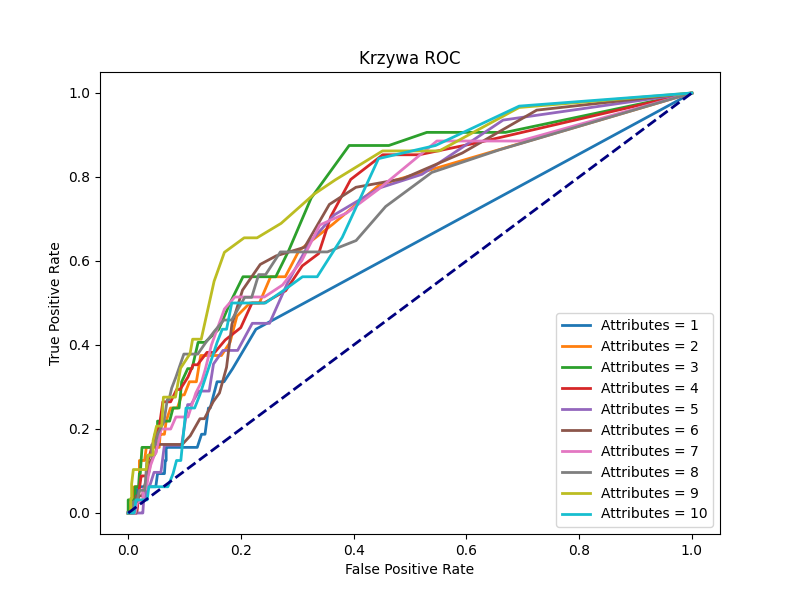
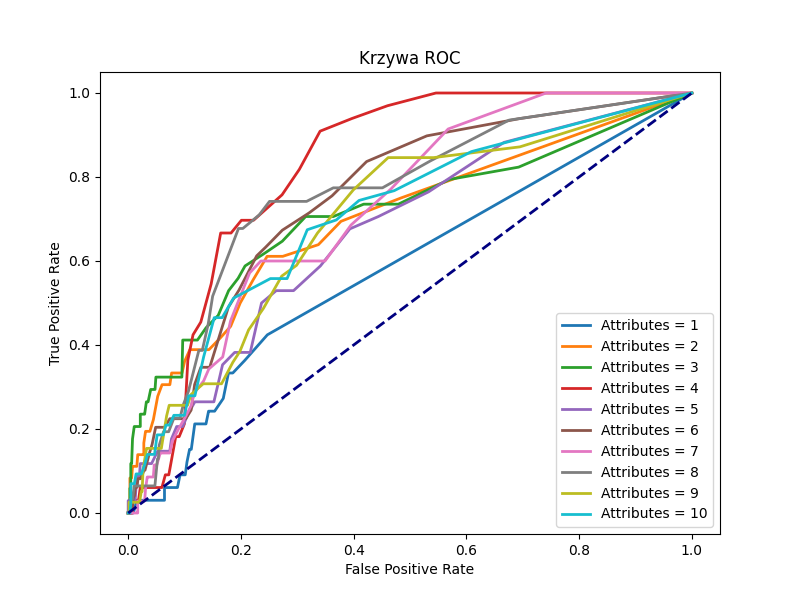
Fixes

diff --git a/main.py b/main.py
@@ -2,7 +2,7 @@ import os
 
 import numpy as np
 import pandas as pd
-from scipy.stats import shapiro, ttest_ind, ttest_rel, mannwhitneyu, kruskal
+from scipy.stats import shapiro, ttest_ind, ttest_rel, mannwhitneyu, kruskal, binom
 import matplotlib.pyplot as plt
 from sklearn.datasets import make_classification
 from sklearn.decomposition import PCA
@@ -42,10 +42,12 @@ def plots(data):
 
         plt.tight_layout()
         plt.savefig(f"plots/{label}.png")
-        plt.show()
+        plt.close()
 
 
-def check_normal_distribution(data):
+def check_normal_distribution():
+    print("Performing the normal distribution check:")
+    data = pd.read_csv("datasets/height_weight.csv")
     height_data = data["Height"]
     weight_data = data["Weight"]
 
@@ -81,7 +83,8 @@ def check_normal_distribution(data):
 
     plt.tight_layout()
     plt.savefig("plots/normal_distribution.png")
-    plt.show()
+    plt.close()
+    print("")
 
 
 # This function calculates basic descriptive statistics for the given data and saves the results to a file.
@@ -103,27 +106,46 @@ def descriptive_statistics(data, output_file="descriptive_statistics.csv"):
     print(descriptive_stats)
 
 
-def student_ttest(data):
-    height = data["Height"]
-    weight = data["Weight"]
+def student_ttest():
+    print("Performing the student t-test:")
+    data = pd.read_csv("datasets/height_weight_exploit.csv")
 
-    t_stat, p_value = ttest_ind(height, weight)
+    df_man = data[data['Gender'] == 1]
+    df_women = data[data['Gender'] == 0]
+
+    height_man = df_man["Height"]
+    height_women = df_women["Height"]
+
+    t_stat, p_value = ttest_ind(height_man, height_women)
     print("t-statistic: ", t_stat)
     print("p-value: ", p_value)
 
     alpha = 0.05
     if p_value < alpha:
         print(
-            "Reject the null hypothesis. There is a significant difference between height and weight levels."
+            "Reject the null hypothesis. There is a significant difference in height between men and women."
         )
     else:
         print(
-            "Fail to reject the null hypothesis. There is no significant difference between height and weight levels."
+            "Fail to reject the null hypothesis. There is no significant difference in height between men and women."
         )
 
+    print("")
 
-def paired_ttest(data):
-    corr_coefficient, p_value = ttest_rel(data["Weight"], data["Height"])
+
+def paired_ttest():
+    print("Performing the pair t-test:")
+    data = pd.read_csv("datasets/height_weight_exploit.csv")
+
+    df_man = data[data['Gender'] == 1]
+    df_women = data[data['Gender'] == 0]
+
+    weight_man = df_man["Weight"].values
+    weight_women = df_women["Weight"].values
+
+    max_pairs = max(len(weight_man),len(weight_man))
+
+    corr_coefficient, p_value = ttest_rel(weight_man[:max_pairs], weight_women[:max_pairs])
 
     # Print the results
     print(f"Pearson correlation coefficient: {corr_coefficient}")
@@ -133,16 +155,24 @@ def paired_ttest(data):
     alpha = 0.05
     if p_value < alpha:
         print(
-            "Reject the null hypothesis. There is a significant difference between Height and Weight."
+            "Reject the null hypothesis. There is a significant difference in weight before and after tratment."
         )
     else:
         print(
-            "Fail to reject the null hypothesis. There is no significant difference between Height and Weight."
+            "Fail to reject the null hypothesis. There is no significant difference in weight before and after tratment."
         )
 
+    print("")
 
-def kruskal_test(data):
-    kruskal_stat, p_value = kruskal(data["ThalAch"], data["Chol"], data["Age"])
+
+def kruskal_test():
+    print("Performing the Kruskal-Wallis test:")
+    data = pd.read_csv("datasets/heart_disease.csv")
+
+    df_man = data[data['Sex'] == 1]
+    df_women = data[data['Sex'] == 0]
+
+    kruskal_stat, p_value = kruskal(df_man["Chol"], df_women["Chol"])
 
     # Print the results
     print(f"Kruskal statistics: {kruskal_stat}")
@@ -152,16 +182,24 @@ def kruskal_test(data):
     alpha = 0.05
     if p_value < alpha:
         print(
-            "Reject the null hypothesis. There is a significant difference between Height and Weight."
+            "Reject the null hypothesis. There is a significant difference in cholesterol level between men and women."
         )
     else:
         print(
-            "Fail to reject the null hypothesis. There is no significant difference between Height and Weight."
+            "Fail to reject the null hypothesis. There is no significant difference in cholesterol level between men and women."
         )
 
+    print("")
 
-def mann_whitney_u_test(data):
-    mann_whitney_u_stat, p_value = mannwhitneyu(data["Age"], data["Chol"])
+
+def mann_whitney_u_test():
+    print("Performing the Mann Whitney U test:")
+    data = pd.read_csv("datasets/heart_disease.csv")
+
+    df_man = data[data['Sex'] == 1]
+    df_women = data[data['Sex'] == 0]
+
+    mann_whitney_u_stat, p_value = mannwhitneyu(df_man["RestECG"], df_women["RestECG"])
 
     # Print the results
     print(f"Mann Whitney U statistic: {mann_whitney_u_stat}")
@@ -171,11 +209,11 @@ def mann_whitney_u_test(data):
     alpha = 0.05
     if p_value < alpha:
         print(
-            "Reject the null hypothesis. There is a significant difference between ThalAch and Sex."
+            "Reject the null hypothesis. There is a significant difference in rest ecg between men and women."
         )
     else:
         print(
-            "Fail to reject the null hypothesis. There is no significant difference between ThalAch and Sex."
+            "Fail to reject the null hypothesis. There is no significant difference in rest ecg between men and women."
         )
 
 
@@ -229,34 +267,55 @@ def make_friedman_test():
 def plot_survival_curves():
     df = pd.read_csv("datasets/strokes.csv")
 
-    age =60
+    glucose_level = 150
 
-    df_over_50 = df[df['age'] > age]
-    df_under_50 = df[df['age'] <= age]
+    df_over_100 = df[df['avg_glucose_level'] > glucose_level]
+    df_under_100 = df[df['avg_glucose_level'] <= glucose_level]
     kmf1 = KaplanMeierFitter()
-    kmf1.fit(durations=df_over_50['avg_glucose_level'], event_observed=df_over_50['stroke'])
+    kmf1.fit(durations=df_over_100['age'], event_observed=df_over_100['stroke'])
     kmf2 = KaplanMeierFitter()
-    kmf2.fit(durations=df_under_50['avg_glucose_level'], event_observed=df_under_50['stroke'])
+    kmf2.fit(durations=df_under_100['age'], event_observed=df_under_100['stroke'])
     kmf1.plot_survival_function()
     kmf2.plot_survival_function()
 
-    plt.title('Krzywa przeżycia Kaplana-Meiera w zależności od ilości glukozy we krwi')
-    plt.xlabel('Ilość glukozy we krwi')
+    plt.title('Krzywa przeżycia Kaplana-Meiera w zależności od poziomu glukozy')
+    plt.xlabel('Wiek')
     plt.ylabel('Prawdopodobieństwo niedostania udaru')
-    plt.xlim(min(df['avg_glucose_level']) - 10, max(df['avg_glucose_level']) + 10)
+    plt.xlim(45, 85)
     legend = plt.legend()
-    legend.get_texts()[0].set_text(f'Ilość glukozy we krwi dla grupy > {age} lat')
-    legend.get_texts()[1].set_text(f'Ilość glukozy we krwi dla grupy <= {age} lat')
-    plt.show()
+    legend.get_texts()[0].set_text(f'Wiek dla grupy > {glucose_level} poziomu glukozy')
+    legend.get_texts()[1].set_text(f'Wiek dla grupy <= {glucose_level} poziomu glukozy')
+    plt.savefig("plots/curve_1.png")
+    plt.close()
+
+    bmi = 25
+
+    df_over_25 = df[df['bmi'] > bmi]
+    df_under_25 = df[df['bmi'] <= bmi]
+    kmf1 = KaplanMeierFitter()
+    kmf1.fit(durations=df_over_25['age'], event_observed=df_over_25['stroke'])
+    kmf2 = KaplanMeierFitter()
+    kmf2.fit(durations=df_under_25['age'], event_observed=df_under_25['stroke'])
+    kmf1.plot_survival_function()
+    kmf2.plot_survival_function()
+
+    plt.title('Krzywa przeżycia Kaplana-Meiera w zależności od wskaźnika BMI')
+    plt.xlabel('Wiek')
+    plt.ylabel('Prawdopodobieństwo niedostania udaru')
+    plt.xlim(45, 85)
+    legend = plt.legend()
+    legend.get_texts()[0].set_text(f'Wiek dla grupy > {bmi} wskaźnika bmi')
+    legend.get_texts()[1].set_text(f'Wiek dla grupy <= {bmi} wskaźnika bmi')
+    plt.savefig("plots/curve_2.png")
+    plt.close()
 
 
 def pca_roc():
     data = pd.read_csv("datasets/strokes.csv")
 
-
-
     # Extract relevant columns for X
-    selected_features = ["gender","age","hypertension","heart_disease","ever_married","work_type","Residence_type","avg_glucose_level","bmi","smoking_status"]
+    selected_features = ["gender", "age", "hypertension", "heart_disease", "ever_married", "work_type",
+                         "Residence_type", "avg_glucose_level", "bmi", "smoking_status"]
 
     # Convert categorical variables to numerical or boolean values
     gender_mapping = {'Male': 0, 'Female': 1}
@@ -285,27 +344,27 @@ def pca_roc():
     plt.title('Explained Variance Ratio vs. Number of Principal Components')
     plt.xlabel('Ilość cech')
     plt.ylabel('Cumulative Explained Variance Ratio')
-    plt.show()
+
+    plt.close()
 
     results = []
     auc_res = []
 
-    for i in range(1,11):
-        X_train, X_test, y_train, y_test = train_test_split(X_pca[:,:i], y, test_size=0.2)
+    for i in range(1, 11):
+        X_train, X_test, y_train, y_test = train_test_split(X_pca[:, :i], y, test_size=0.2)
         clf = RandomForestClassifier(random_state=42)
         clf.fit(X_train, y_train)
         y_scores = clf.predict_proba(X_test)[:, 1]
 
         fpr, tpr, thresholds = roc_curve(y_test, y_scores)
-        auc_res.append( roc_auc_score(y_test, y_scores))
+        auc_res.append(roc_auc_score(y_test, y_scores))
         results.append((fpr, tpr))
-
 
     plt.figure(figsize=(8, 6))
 
-    for i,res in enumerate(results):
-        fpr, tpr=res
-        plt.plot(fpr, tpr, lw=2,label=f"Attributes = {i+1}")
+    for i, res in enumerate(results):
+        fpr, tpr = res
+        plt.plot(fpr, tpr, lw=2, label=f"Attributes = {i + 1}")
 
     plt.plot([0, 1], [0, 1], color='navy', lw=2, linestyle='--')
     plt.xlabel('False Positive Rate')
@@ -320,15 +379,16 @@ def pca_roc():
     explained_variance_ratio = pca.explained_variance_ratio_
     cumulative_variance_ratio = np.cumsum(explained_variance_ratio)
     table_data = {
-        "Eigenvalue": eigenvalues,
-        "Difference": eigenvalue_diff,
-        "Proportion": explained_variance_ratio,
-        "Cumulative": cumulative_variance_ratio,
-        "AUC": auc_res
+        "Eigenvalue": np.round(eigenvalues,4),
+        "Difference": np.round(eigenvalue_diff,4),
+        "Proportion": np.round(explained_variance_ratio,4),
+        "Cumulative": np.round(cumulative_variance_ratio,4),
+        "AUC": np.round(auc_res,4)
     }
     result_table = pd.DataFrame(table_data)
     result_table.index += 1
     result_table.to_csv('pca_results_table.csv', index_label='Index')
+
 
 def main():
     # # Loading normal distributed data - https://www.kaggle.com/code/mysha1rysh/gaussian-normal-distribution/notebook
@@ -338,44 +398,67 @@ def main():
     #
     # plots(medical_data)
     #
-    # # Calculate and save descriptive statistics
-    # descriptive_statistics(
-    #     normal_distributed_data,
-    #     output_file="descriptive_stats/descriptive_statistics_height_weight.csv",
-    # )
-    # descriptive_statistics(
-    #     medical_data, output_file="descriptive_stats/descriptive_statistics_medical.csv"
-    # )
+    # # # Calculate and save descriptive statistics
+    # # descriptive_statistics(
+    # #     normal_distributed_data,
+    # #     output_file="descriptive_stats/descriptive_statistics_height_weight.csv",
+    # # )
+    # # descriptive_statistics(
+    # #     medical_data, output_file="descriptive_stats/descriptive_statistics_medical.csv"
+    # # )
+    # #
+    # # # Checking normal distribution of data for tests with normal distribution
+    # # check_normal_distribution()
     #
-    # print("Performing the normal distribution check:")
-    # # Checking normal distribution of data for tests with normal distribution
-    # check_normal_distribution(normal_distributed_data)
-    # print("")
-    #
-    # print("Performing the student t-test:")
     # # Perform Student t-test - parametric
-    # student_ttest(normal_distributed_data)
-    # print("")
+    # student_ttest()
     #
-    # print("Performing the pair t-test:")
     # # Perform paired t-test correlation test - parametric
-    # paired_ttest(normal_distributed_data)
-    # print("")
+    # paired_ttest()
     #
-    # print("Performing the Kruskal-Wallis test:")
     # # Perform Kruskal-Wallis test - non parametric
-    # kruskal_test(medical_data)
-    # print("")
+    # kruskal_test()
     #
-    # print("Performing the Mann Whitney U test:")
     # # Perform Mann Whitney U test - non parametric
-    # mann_whitney_u_test(medical_data)
+    # mann_whitney_u_test()
     #
+    # # Perform Friedman test
     # make_friedman_test()
 
-    plot_survival_curves()
+    # # Perform survival curves
+    # plot_survival_curves()
 
-    # pca_roc()
+    # Perform ROC curves with PCA
+    pca_roc()
+
+
+# def exploit():
+#     df = pd.read_csv('datasets/height_weight.csv')
+#     output_path = 'datasets/height_weight_exploit.csv'
+#
+#     gender = []
+#
+#     opis = [0,0]
+#
+#     for i,height in enumerate(df["Weight"]):
+#         rand = np.random.randint(0,10)
+#         if height > 130:
+#             if rand < 9:
+#                 gender.append(1)
+#                 opis[1]+=1
+#             else:
+#                 gender.append(0)
+#                 opis[0]+=1
+#         else:
+#             if rand < 9:
+#                 gender.append(0)
+#                 opis[0]+=1
+#             else:
+#                 gender.append(1)
+#                 opis[1]+=1
+#
+#     df["Gender"] = gender
+#     df.to_csv(output_path, index_label='Index')
 
 
 if __name__ == "__main__":
